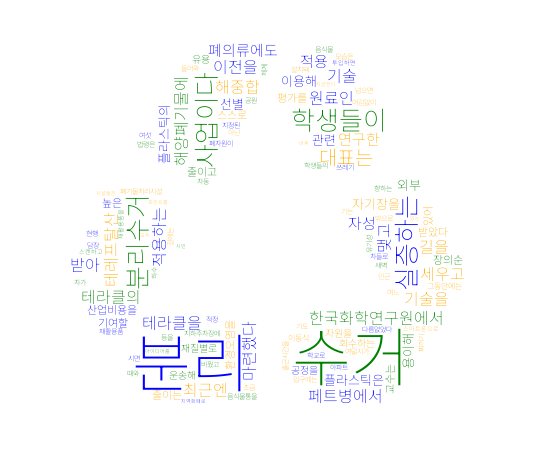
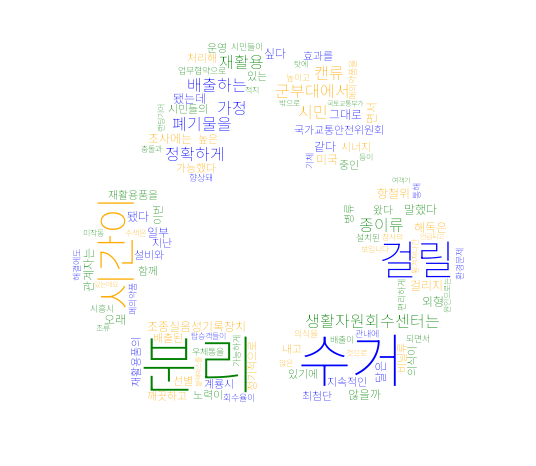
1230_update

Changed region(s): [[0.5075, 0.3605, 0.8657, 0.8712], [0.2388, 0.0901, 0.7164, 0.3906], [0.1194, 0.3906, 0.4776, 0.8712]]

diff --git a/main/wordCloud_tree.py b/main/wordCloud_tree.py
@@ -12,14 +12,14 @@ import requests
 import os
 import html
 import logging
-
+from datetime import datetime, timedelta
 
 # 로그 설정
-handler = RotatingFileHandler("server.log", maxBytes=1024 * 1024, backupCount=5)  # 1MB 크기, 5개의 백업 로그 유지
+handler = RotatingFileHandler("server.log", maxBytes=1024 * 1024, backupCount=5)
 logging.basicConfig(
-    level=logging.INFO,  # 로그 레벨 설정 (DEBUG, INFO, WARNING, ERROR, CRITICAL)
+    level=logging.INFO,
     format="%(asctime)s - %(levelname)s - %(message)s",
-    handlers=[handler, logging.StreamHandler()]  # 파일 및 콘솔 로그 출력
+    handlers=[handler, logging.StreamHandler()]
 )
 
 # Flask 앱 생성 및 CORS 설정
@@ -35,60 +35,81 @@ CLIENT_SECRET = os.getenv("CLIENT_SECRET")
 
 # 프로젝트 디렉토리 및 리소스 경로 설정
 BASE_DIR = os.path.abspath(os.path.dirname(__file__))
-FONT_PATH = os.path.join(BASE_DIR, "../font", "NotoSansKR-VariableFont_wght.ttf")  # 폰트 파일 경로
-MASK_IMAGE_PATH = os.path.join(BASE_DIR, "../image", "Recycle.png")               # 마스크 이미지 경로
+FONT_PATH = os.path.join(BASE_DIR, "../font", "NotoSansKR-VariableFont_wght.ttf")
+MASK_IMAGE_PATH = os.path.join(BASE_DIR, "../image", "Recycle.png")
 
 # 워드클라우드 색상 설정
 recycle_colors = ["#008000", "#0000FF", "#FFAA00"]
 def recycle_colors_func(word, font_size, position, orientation, random_state=None, **kwargs):
-    # 워드클라우드 텍스트에 초록색, 파란색, 주황색 랜덤 적용
     return random.choice(recycle_colors)
+
+# 전역 변수: 마지막 업데이트 시간
+last_updated = None  # 마지막 업데이트 시간을 저장
 
 # 네이버 뉴스 데이터 가져오기
 def fetch_naver_news(display=5):
-    keyword = "분리수거"  # 검색 키워드
+    keyword = "분리수거"
     url = "https://openapi.naver.com/v1/search/news.json"
     headers = {
-        "X-Naver-Client-Id": CLIENT_ID,  # 네이버 API 클라이언트 ID
-        "X-Naver-Client-Secret": CLIENT_SECRET  # 네이버 API 클라이언트 Secret
+        "X-Naver-Client-Id": CLIENT_ID,
+        "X-Naver-Client-Secret": CLIENT_SECRET
     }
     params = {
-        "query": keyword,  # 검색어
-        "display": display,  # 가져올 뉴스 개수
-        "start": 1,         # 검색 시작 위치
-        "sort": "date"      # 최신순 정렬
+        "query": keyword,
+        "display": display,
+        "start": 1,
+        "sort": "date"
     }
     try:
         response = requests.get(url, headers=headers, params=params)
-        response.raise_for_status()  # HTTP 요청 성공 여부 확인
+        response.raise_for_status()
         data = response.json()
-        logging.info(f"네이버 뉴스 API 요청 성공")
-        return data["items"]  # 뉴스 데이터 반환
+        logging.info("네이버 뉴스 API 요청 성공")
+        return data["items"]
     except requests.exceptions.RequestException as e:
         logging.error(f"네이버 뉴스 API 요청 실패: {e}")
-        return []  # 실패 시 빈 리스트 반환
+        return []
 
 # 텍스트 전처리 및 명사 추출
 def preprocess_text(text):
-    tokens = re.findall(r'\b[가-힣]{2,}\b', text)  # 한글 단어 추출
-    stop_words = {"것", "수", "있다", "하다", "의", "를", "이", "에", "가", "은", "들", "에서"}  # 불용어 제거
-    word_freq = Counter([word for word in tokens if word not in stop_words])  # 단어 빈도 계산
+    tokens = re.findall(r'\b[가-힣]{2,}\b', text)
+    stop_words = {"것", "수", "있다", "하다", "의", "를", "이", "에", "가", "은", "들", "에서"}
+    word_freq = Counter([word for word in tokens if word not in stop_words])
     return word_freq
 
 # 워드클라우드 생성 함수
 def generate_wordcloud(word_freq, output_path):
     try:
-        mask = np.array(Image.open(MASK_IMAGE_PATH))  # 마스크 이미지 로드
+        mask = np.array(Image.open(MASK_IMAGE_PATH))
         wordcloud = WordCloud(
-            font_path=FONT_PATH,  # 워드클라우드에 사용할 폰트
-            background_color="white",  # 배경색 설정
-            mask=mask,  # 마스크 이미지 적용
-            color_func=recycle_colors_func  # 색상 설정
+            font_path=FONT_PATH,
+            background_color="white",
+            mask=mask,
+            color_func=recycle_colors_func
         ).generate_from_frequencies(word_freq)
-        wordcloud.to_file(output_path)  # 워드클라우드 이미지 파일로 저장
+        wordcloud.to_file(output_path)
         logging.info("워드클라우드 이미지 생성 완료")
     except Exception as e:
-        logging.error(f"Failed to generate wordcloud: {e}")
+        logging.error(f"워드클라우드 생성 실패: {e}")
+
+# 워드클라우드와 기사를 업데이트하는 함수
+def update_content():
+    global last_updated
+    now = datetime.now()
+
+    # 오전 6시 이후이고, 이전 업데이트가 없거나 하루가 지났다면 업데이트
+    if not last_updated or now >= last_updated + timedelta(days=1):
+        logging.info("컨텐츠 업데이트 시작")
+        descriptions = [item["description"] for item in fetch_naver_news(display=5)]
+
+        if descriptions:
+            combined_text = " ".join(descriptions)
+            word_freq = preprocess_text(combined_text)
+            generate_wordcloud(word_freq, "wordcloud.png")
+            last_updated = now.replace(hour=6, minute=0, second=0, microsecond=0)
+            logging.info(f"컨텐츠 업데이트 완료: {last_updated}")
+        else:
+            logging.error("네이버 뉴스 데이터를 가져오지 못했습니다.")
 
 # 메인 페이지 라우트
 @app.route("/", methods=["GET"])
@@ -102,45 +123,45 @@ def home():
     </ul>
     """
 
-# 워드클라우드 생성 API
+# 워드클라우드 API
 @app.route("/api/wordcloud", methods=["GET"])
 def wordcloud_endpoint():
-    logging.info("워드클라우드 생성 요청을 처리합니다.")
-    descriptions = [item["description"] for item in fetch_naver_news(display=5)]  # 뉴스 내용 추출
-
-    if not descriptions:  # 뉴스 데이터가 없으면 에러 반환
-        return jsonify({"error": "기사를 가져올 수 없습니다."}), 500
-
-    combined_text = " ".join(descriptions)  # 모든 뉴스 내용을 합침
-    word_freq = preprocess_text(combined_text)  # 텍스트 전처리
-    output_path = "wordcloud.png"  # 워드클라우드 출력 파일 경로
-    generate_wordcloud(word_freq, output_path)  # 워드클라우드 생성
-
-    return send_file(output_path, mimetype="image/png")  # 생성된 이미지를 반환
+    update_content()  # 필요 시 컨텐츠 업데이트
+    return send_file("wordcloud.png", mimetype="image/png")
 
 # 뉴스 리스트 API
 @app.route("/api/news", methods=["GET"])
 def news_endpoint():
-    logging.info("뉴스 리스트 요청을 처리합니다.")
-    articles = fetch_naver_news(display=10)  # 최대 10개의 뉴스 가져오기
+    update_content()  # 필요 시 컨텐츠 업데이트
+    articles = fetch_naver_news(display=10)
 
-    if not articles:  # 뉴스 데이터가 없으면 에러 반환
+    if not articles:
         return jsonify({"error": "기사를 가져올 수 없습니다."}), 500
 
-    # 중복 제거를 위한 Set 사용
     seen_titles = set()
     news_list = []
     for item in articles:
-        title = html.unescape(item["title"].replace("<b>", "").replace("</b>", ""))  # 제목 정리
-        if title not in seen_titles:  # 중복된 제목 제거
+        title = html.unescape(item["title"].replace("<b>", "").replace("</b>", ""))
+        if title not in seen_titles:
             seen_titles.add(title)
             news_list.append({
-                "title": title,  # 기사 제목
-                "link": item["link"]  # 기사 링크
+                "title": title,
+                "link": item["link"]
             })
 
-    return jsonify(news_list)  # JSON으로 뉴스 리스트 반환
+    return jsonify(news_list)
 
-# Flask 서버 실행
 if __name__ == "__main__":
-    app.run(debug=True, host="0.0.0.0", port=5001)  # 서버 실행
+    import sys
+    import os
+
+    # 서버 중복 실행 방지
+    try:
+        update_content()  # 서버 시작 시 즉시 업데이트
+        app.run(debug=True, host="0.0.0.0", port=5002)
+    except OSError as e:
+        if "Address already in use" in str(e):
+            print("포트 5001이 이미 사용 중입니다. 서버가 이미 실행 중일 수 있습니다.")
+            sys.exit(1)
+        else:
+            raise e
